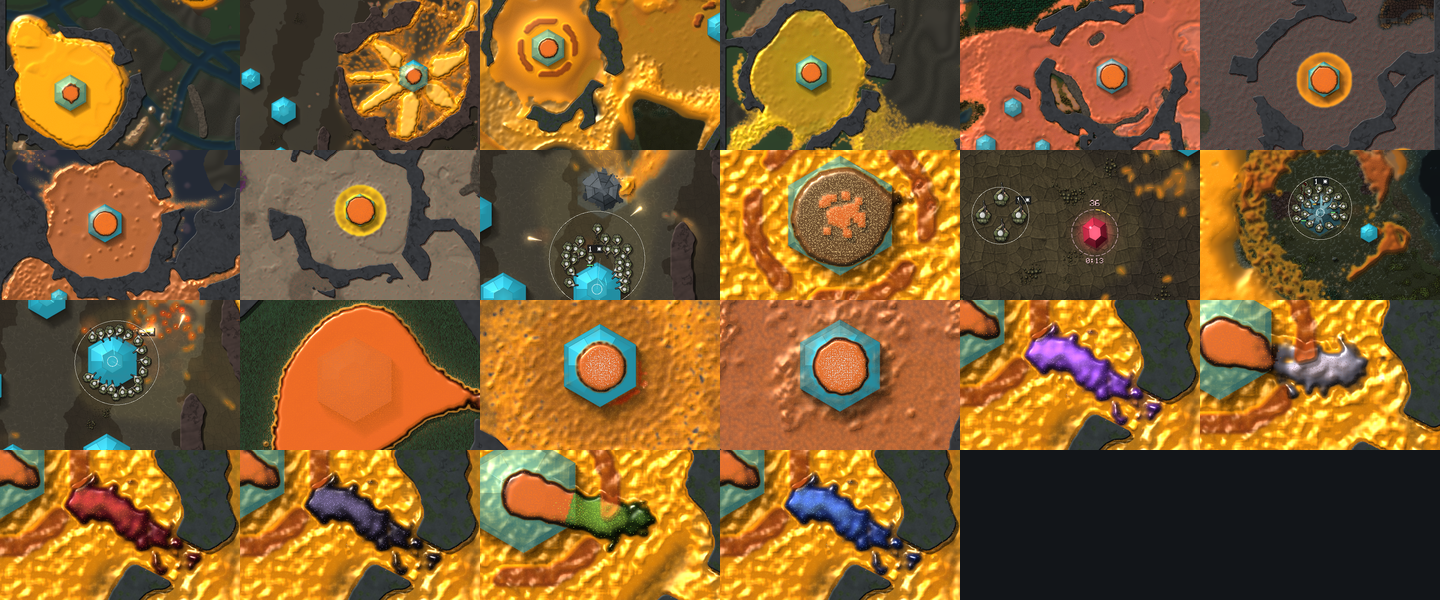
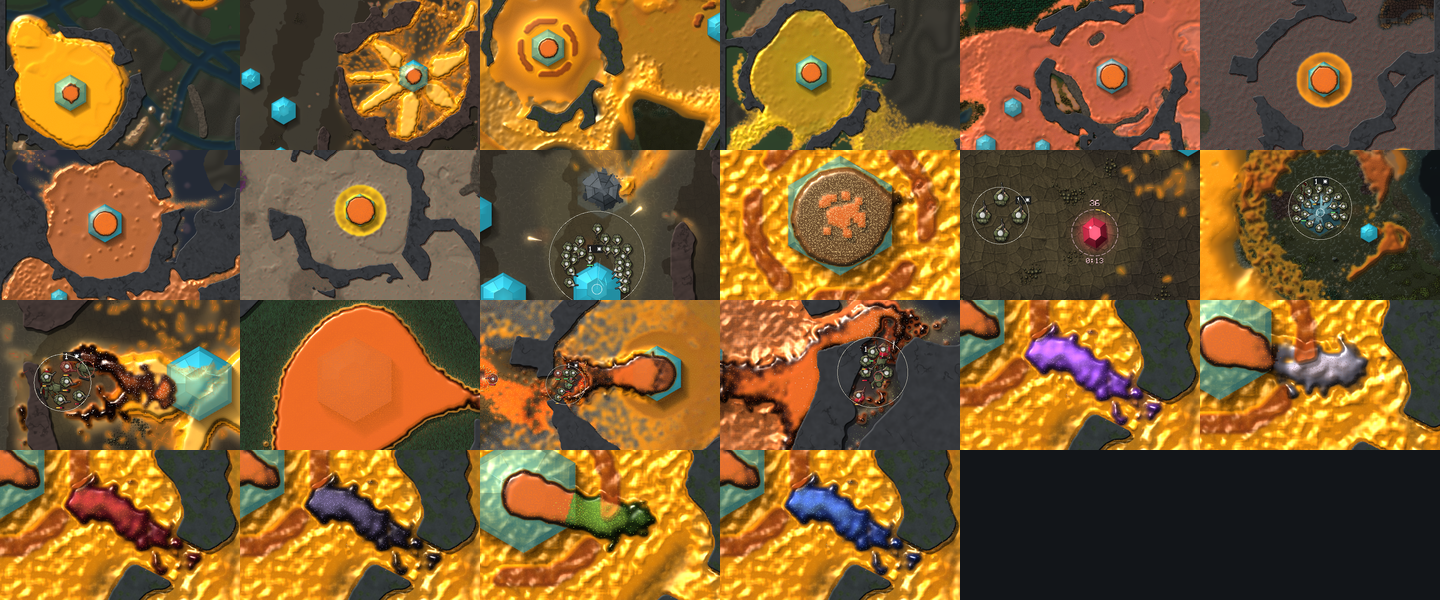
What is new by day, things to try beside it; three Slimes met stills refilmed
Direction's list (11-24 20:47Z), item 1: the what-is-new list is about 300
lines. The page already opened on the lines new to this PC and the main
menu row already counted them ("14 new"); now each run of one day's lines
sits under that day's heading ("Tuesday 24 November · 14 new", then the
days played on as "· N played before"), a page that starts inside a day
says its heading again, no page ends on a heading, and the five things to
try sit beside the list over the note with their ticks (a click ticks one;
the note tells the one under the cursor). The per-row date column went:
the heading carries the day.

Tried and moved: the things to try over the list, as Direction worded it.
At 3840x2160 and 250% that left three lines a page (78 pages); beside the
list it is eight a page (38 pages) and fifteen at 1280x800.

Stills (coordinator 20:35Z): lunge, wake and scar refilmed with the squad
holding beside the heart (commands in met-stills.py's header). The scar is
still subtle: the pill reads about 1% on old scar at 90 s.

Claude-Session: https://claude.ai/code/session_01TFcbG4kjXzCgswWqzPNG9n

Changed region(s): [[0.3125, 0.48, 0.6875, 0.75], [0.0, 0.48, 0.1875, 0.75]]

diff --git a/src/world/start.rs b/src/world/start.rs
@@ -701,6 +701,47 @@ fn sheet_of(n: usize, per: usize, sheet: usize) -> (std::ops::Range<usize>, usiz
     (p * per..((p + 1) * per).min(n), pages)
 }
 
+/// A row of the "what is new" list: a day's heading (its words, and
+/// whether it heads new lines), or line `i`.
+#[derive(Clone, Debug, PartialEq)]
+enum NewsRow {
+    Day(String, bool),
+    Line(usize),
+}
+
+/// The list's rows: each run of lines of one day and one kind (new, or
+/// on a build played here) under its heading.
+fn news_rows(news: &[NewsLine]) -> Vec<NewsRow> {
+    let mut rows = Vec::new();
+    let mut i = 0;
+    while i < news.len() {
+        let (new, date) = (news[i].new, &news[i].date);
+        let k = news[i..].iter().take_while(|l| l.new == new && l.date == *date).count();
+        let said = if new { format!("{k} new") } else { format!("{k} played before") };
+        rows.push(NewsRow::Day(format!("{}  ·  {said}", day_name(date)), new));
+        rows.extend((i..i + k).map(NewsRow::Line));
+        i += k;
+    }
+    rows
+}
+
+/// "2026-11-24" as "Tuesday 24 November"; the text itself if it is not a
+/// date.
+fn day_name(date: &str) -> String {
+    let d: Vec<i32> = date.split('-').filter_map(|x| x.parse().ok()).collect();
+    let [y, m, day] = d[..] else { return date.to_string() };
+    if !(1..=12).contains(&m) {
+        return date.to_string();
+    }
+    // Sakamoto's weekday, 0 Sunday.
+    const T: [i32; 12] = [0, 3, 2, 5, 0, 3, 5, 1, 4, 6, 2, 4];
+    let yy = if m < 3 { y - 1 } else { y };
+    let w = (yy + yy / 4 - yy / 100 + yy / 400 + T[(m - 1) as usize] + day).rem_euclid(7) as usize;
+    const DAYS: [&str; 7] = ["Sunday", "Monday", "Tuesday", "Wednesday", "Thursday", "Friday", "Saturday"];
+    const MONTHS: [&str; 12] = ["January", "February", "March", "April", "May", "June", "July", "August", "September", "October", "November", "December"];
+    format!("{} {day} {}", DAYS[w], MONTHS[(m - 1) as usize])
+}
+
 /// The size `text` fits `max` pixels at: `px`, smaller down to `least`
 /// (a tile's name shrinks before it is cut).
 fn fit_px(c: &Canvas, text: &str, px: f32, least: f32, max: f32) -> f32 {
@@ -907,8 +948,9 @@ pub struct StartMenu {
     /// Rows a page of it, as last drawn.
     per: usize,
     /// The build page's tab showing (0 what is new, 1 the things to try),
-    /// and the first thing to try on each page of that list as last drawn
-    /// (its rows are as tall as their text, so a page has no fixed count).
+    /// and the first row on each page of that tab as last drawn (a thing
+    /// to try is as tall as its text, and what is new has its days'
+    /// headings, so neither page has a fixed count).
     news_tab: usize,
     try_first: Vec<usize>,
 }
@@ -1233,9 +1275,11 @@ impl StartMenu {
     fn flip(&mut self, by: isize) {
         let n = self.sheets.max(1) as isize;
         self.sheet = (self.sheet as isize + by).rem_euclid(n) as usize;
-        if matches!(self.page, Page::Options | Page::Missions | Page::Shop | Page::Runs) || (self.page == Page::News && self.news_tab == 0) {
+        if matches!(self.page, Page::Options | Page::Missions | Page::Shop | Page::Runs) {
             self.focus = self.sheet * self.per.max(1);
         } else if self.page == Page::News {
+            // (Both tabs page by height: each page's first row, kept by
+            // the page as it draws.)
             self.focus = self.try_first.get(self.sheet).copied().unwrap_or(0);
         }
     }
@@ -2176,9 +2220,13 @@ impl StartMenu {
     }
 
     /// **What is new** (the build page's first tab): the list's lines as
-    /// one-line rows, the ones new to this PC first and marked, a page of
-    /// them if they outgrow the screen, and beside them the line under the
-    /// cursor (else the keyboard's, else the first) in full: what the
+    /// one-line rows, the ones new to this PC first and marked, each run
+    /// of one day under that day's heading ("Tuesday 24 November · 11
+    /// new", then the days already played on; Direction 11-24: the list
+    /// was 300 lines), a page of them if they outgrow the screen. Beside
+    /// them, the things to try as one-line rows with their ticks (they sat
+    /// a tab away), and under those the line under the cursor (else the
+    /// keyboard's, else the first) in full: what the
     /// player will see, how to try it, who wrote it and when. The same
     /// list-and-note shape as Options and the campaign, since a line is
     /// two or three sentences and a row has room for half of one.
@@ -2186,25 +2234,96 @@ impl StartMenu {
         let Some(b) = self.build.clone() else { return top };
         let n = b.news.len();
         let (lw, nw) = self.split(c, x, s);
-        let (rh, cap) = (40.0 * s, 40.0 * s);
         let room = self.room(c, top, s);
-        let per = ((room - cap - 12.0 * s) / rh).floor().max(1.0) as usize;
-        if let Some(Hit::Line(i)) = focus {
-            self.sheet = i / per;
+        // The things to try, a row each, over the note: a click ticks one
+        // (as on their own tab, which tells them in full), and the note
+        // tells the one under the cursor. (Over the list until the 4K
+        // film: at 250% on 2160 lines it left three lines a page.)
+        let mut hot_try = None;
+        let nx = x + lw + 20.0 * s;
+        let mut nt = top;
+        if !b.to_try.is_empty() {
+            let (th, tcap) = (30.0 * s, 38.0 * s);
+            let tp = Rect::new(nx, top, nw, tcap + b.to_try.len() as f32 * th + 8.0 * s);
+            self.glass(tp, c, s);
+            let left = b.untried();
+            let head = if left == 0 { format!("Things to try: all {} ticked", b.to_try.len()) } else { format!("Things to try: {left} of {} not ticked yet", b.to_try.len()) };
+            c.text_fit(Weight::SemiBold, 15.0 * s, (tp.x + 20.0 * s, tp.y + 27.0 * s), Align::Left, &head, tp.w - 40.0 * s, if left > 0 { ACCENT } else { MUTED });
+            let mut y = tp.y + tcap;
+            for (i, t) in b.to_try.iter().enumerate() {
+                let row = Rect::new(tp.x + 8.0 * s, y, tp.w - 16.0 * s, th - 2.0 * s);
+                let hot = self.hover.is_some_and(|p| row.contains(p));
+                if hot {
+                    c.rrect(row, 8.0 * s, [255, 255, 255, 12]);
+                    hot_try = Some(i);
+                }
+                let tick = Rect::new(row.x + 12.0 * s, row.y + (row.h - 18.0 * s) / 2.0, 18.0 * s, 18.0 * s);
+                if t.tried {
+                    c.rrect(tick, 5.0 * s, with_alpha(GOOD, 0.22));
+                    c.outline(tick, 5.0 * s, 1.5 * s, GOOD);
+                    c.icon(Icon::Check, (tick.x + 2.0 * s, tick.y + 2.0 * s), 14.0 * s, GOOD);
+                } else {
+                    c.outline(tick, 5.0 * s, 1.5 * s, if hot { TEXT } else { MUTED });
+                }
+                let tx = tick.right() + 12.0 * s;
+                c.text_fit(Weight::Medium, 14.5 * s, (tx, row.y + row.h / 2.0 + 5.0 * s), Align::Left, &t.text, row.right() - 10.0 * s - tx, if t.tried { MUTED } else { TEXT });
+                self.hits.push((row, Hit::Try(i)));
+                y += th;
+            }
+            nt = tp.bottom() + 14.0 * s;
         }
-        let (shown, pages) = sheet_of(n, per, self.sheet);
-        (self.sheets, self.per) = (pages, per);
-        self.sheet = self.sheet.min(pages - 1);
-        let panel = Rect::new(x, top, lw, cap + shown.len().max(1) as f32 * rh + 12.0 * s);
+        let lt = top;
+        // The rows: each day's heading, then its lines. The list comes
+        // new first, then by day, so a day may head both parts.
+        let rows = news_rows(&b.news);
+        let (rh, dh, cap) = (40.0 * s, 30.0 * s, 40.0 * s);
+        let h_of = |r: &NewsRow| if matches!(r, NewsRow::Day(..)) { dh } else { rh };
+        // Pages by height; a heading never ends a page, and a page that
+        // starts inside a day says its heading again.
+        let col = (room - (lt - top) - cap - 12.0 * s).max(2.0 * dh + rh);
+        let mut first = vec![0usize];
+        let mut used = 0.0f32;
+        for (k, r) in rows.iter().enumerate() {
+            if used + h_of(r) > col && used > 0.0 {
+                let at = if k > 0 && matches!(rows[k - 1], NewsRow::Day(..)) && first.last() != Some(&(k - 1)) { k - 1 } else { k };
+                first.push(at);
+                used = rows[at..k].iter().map(h_of).sum::<f32>() + if matches!(rows[at], NewsRow::Line(_)) { dh } else { 0.0 };
+            }
+            used += h_of(r);
+        }
+        if let Some(Hit::Line(i)) = focus {
+            let at = rows.iter().position(|r| *r == NewsRow::Line(i)).unwrap_or(0);
+            self.sheet = first.iter().rposition(|&f| f <= at).unwrap_or(0);
+        }
+        self.sheets = first.len();
+        self.sheet = self.sheet.min(self.sheets - 1);
+        let (from, to) = (first[self.sheet], first.get(self.sheet + 1).copied().unwrap_or(rows.len()));
+        // Where a page turn puts the keyboard: each page's first line.
+        self.try_first = first.iter().map(|&f| rows[f..].iter().find_map(|r| if let NewsRow::Line(i) = r { Some(*i) } else { None }).unwrap_or(0)).collect();
+        // The heading a page inside a day says again.
+        let again = matches!(rows.get(from), Some(NewsRow::Line(_))).then(|| rows[..from].iter().rev().find(|r| matches!(r, NewsRow::Day(..))).cloned()).flatten();
+        let used: f32 = again.iter().chain(&rows[from..to]).map(h_of).sum();
+        let panel = Rect::new(x, lt, lw, cap + used.max(rh) + 12.0 * s);
         self.glass(panel, c, s);
         // How much is new, and since which build.
         c.text_fit(Weight::SemiBold, 15.0 * s, (panel.x + 20.0 * s, panel.y + 28.0 * s), Align::Left, &b.since(), panel.w - 40.0 * s, if b.fresh() > 0 { ACCENT } else { MUTED });
         let chip_w = c.atlas.measure(Weight::SemiBold, 12.5 * s, "NEW") + 14.0 * s;
-        let date_w = c.atlas.measure(Weight::Medium, 13.5 * s, "00-00") + 12.0 * s;
-        let first = shown.start;
+        let first_line = rows[from..to].iter().find_map(|r| if let NewsRow::Line(i) = r { Some(*i) } else { None });
         let mut told = None;
         let mut y = panel.y + cap + 4.0 * s;
-        for i in shown {
+        for r in again.iter().chain(&rows[from..to]) {
+            let i = match r {
+                NewsRow::Day(t, new) => {
+                    // (A hairline over each heading but the page's first.)
+                    if y > panel.y + cap + 5.0 * s {
+                        c.rrect(Rect::new(panel.x + 18.0 * s, y + 2.0 * s, panel.w - 36.0 * s, 1.0 * s), 0.0, [255, 255, 255, 18]);
+                    }
+                    c.text_fit(Weight::SemiBold, 13.5 * s, (panel.x + 20.0 * s, y + dh - 8.0 * s), Align::Left, t, panel.w - 40.0 * s, if *new { ACCENT } else { MUTED });
+                    y += dh;
+                    continue;
+                }
+                NewsRow::Line(i) => *i,
+            };
             let l = &b.news[i];
             let row = Rect::new(panel.x + 8.0 * s, y, panel.w - 16.0 * s, rh - 4.0 * s);
             let focused = focus == Some(Hit::Line(i));
@@ -2225,10 +2344,9 @@ impl StartMenu {
                 c.rrect(chip, 10.0 * s, with_alpha(ACCENT, 0.18));
                 c.text(Weight::SemiBold, 12.5 * s, (chip.x + chip.w / 2.0, chip.y + 14.5 * s), Align::Centre, "NEW", ACCENT);
             }
-            // (The seen lines keep the column, so the dates line up.)
-            tx += chip_w + 8.0 * s;
-            c.text(Weight::Medium, 13.5 * s, (tx, base), Align::Left, l.date.get(5..).unwrap_or(&l.date), MUTED);
-            tx += date_w;
+            // (The seen lines keep the chip's column, so the words line
+            // up. The day is the heading's since 11-24, not a column.)
+            tx += chip_w + 10.0 * s;
             let (weight, ink) = if l.new { (Weight::SemiBold, TEXT) } else { (Weight::Medium, [201, 210, 219, 255]) };
             c.text_fit(weight, 15.5 * s, (tx, base), Align::Left, &l.sees, row.right() - 12.0 * s - tx, ink);
             self.hits.push((row, Hit::Line(i)));
@@ -2237,14 +2355,31 @@ impl StartMenu {
         if n == 0 {
             c.text(Weight::Medium, 15.5 * s, (panel.x + 20.0 * s, panel.y + cap + 28.0 * s), Align::Left, "The list is empty", MUTED);
         }
-        // The note. Its text shrinks a step or two before it is cut: the
-        // longest lines at 200% on 1080 lines need it.
-        let Some(l) = told.or((n > 0).then_some(first)).map(|i| &b.news[i]) else { return panel.bottom() };
+        let bottom = panel.bottom();
+        // The note: the thing to try under the cursor, else the line. Its
+        // text shrinks a step or two before it is cut: the longest lines
+        // at 200% on 1080 lines need it.
         let tw = nw - 36.0 * s;
+        // (Half a pixel under: filled to the last bit, the sum came out
+        // 0.00003 over at 640 x 400 and the page scrolled.)
+        let room = room - (nt - top) - 0.5;
+        let r0 = |need: f32| Rect::new(nx, nt, nw, (bottom - nt).max(260.0 * s).max(need).min(room));
+        if let Some(t) = hot_try.and_then(|i| b.to_try.get(i)) {
+            let need = (34.0 + 30.0 + 46.0) * s + Self::count(c, Weight::Medium, 16.0 * s, tw, &t.text) * 23.0 * s;
+            let r = r0(need);
+            self.glass(r, c, s);
+            let px = r.x + 18.0 * s;
+            let (tag, ink) = if t.tried { ("A thing to try, ticked", MUTED) } else { ("A thing to try", ACCENT) };
+            c.text(Weight::SemiBold, 13.5 * s, (px, r.y + 34.0 * s), Align::Left, tag, ink);
+            self.lines(c, Weight::Medium, 16.0 * s, (px, r.y + 64.0 * s), tw, 23.0 * s, &t.text, TEXT);
+            c.text_fit(Weight::Medium, 13.0 * s, (px, r.bottom() - 18.0 * s), Align::Left, "A click ticks it: the game remembers it on this PC", tw, MUTED);
+            return bottom.max(r.bottom());
+        }
+        let Some(l) = told.or(first_line).map(|i| &b.news[i]) else { return bottom.max(nt) };
         let fixed = (34.0 + 30.0 + 10.0 + 46.0) * s + if l.try_it.is_empty() { 0.0 } else { 30.0 * s };
         let need = |c: &Canvas, k: f32| fixed + Self::count(c, Weight::Medium, 16.0 * k * s, tw, &l.sees) * 23.0 * k * s + Self::count(c, Weight::Medium, 15.0 * k * s, tw, &l.try_it) * 22.0 * k * s;
         let k = [1.0, 0.92, 0.84].into_iter().find(|&k| need(c, k) <= room).unwrap_or(0.84);
-        let r = Rect::new(x + lw + 20.0 * s, top, nw, panel.h.max(260.0 * s).max(need(c, k)).min(room));
+        let r = r0(need(c, k));
         self.glass(r, c, s);
         let px = r.x + 18.0 * s;
         let mut y = r.y + 34.0 * s;
@@ -2261,7 +2396,7 @@ impl StartMenu {
             self.lines_most(c, 15.0 * k * s, (px, y), tw, 22.0 * k * s, &l.try_it, [201, 210, 219, 255], most(y, 22.0 * k * s));
         }
         c.text_fit(Weight::Medium, 13.0 * s, (px, r.bottom() - 18.0 * s), Align::Left, &format!("{}  ·  {}", l.lane, l.date), tw, MUTED);
-        panel.bottom().max(r.bottom())
+        bottom.max(r.bottom())
     }
 
     /// The Runs page (Direction 11-24): the best time on each planet over
@@ -3523,6 +3658,40 @@ mod tests {
     /// its pages with the wheel and Left/Right, not only the small pager
     /// in the corner (Milestone 1 test 6, 11-22): a notch down is the next
     /// page, the wheel stops at the ends, and the hint says so.
+    /// What is new (Direction 11-24): the things to try over the list,
+    /// each day's lines under its heading, new before played, and no
+    /// page ending on a heading; the keyboard's line keeps its page.
+    #[test]
+    fn what_is_new_groups_its_lines_by_day_under_the_things_to_try() {
+        assert_eq!(day_name("2026-11-24"), "Tuesday 24 November");
+        assert_eq!(day_name("2027-01-01"), "Friday 1 January");
+        assert_eq!(day_name("soon"), "soon");
+        let said = |c: &Canvas, t: &str| c.runs.iter().any(|r| r.text == t);
+        let mut m = menu();
+        let mut c = Canvas::new((1280, 800));
+        // 40 lines: 0-19 of the 18th, 20-39 of the 17th; 0-24 new.
+        m.build = Some(build_page(40, 25));
+        let rows = news_rows(&m.build.as_ref().unwrap().news);
+        let heads: Vec<&str> = rows.iter().filter_map(|r| if let NewsRow::Day(t, _) = r { Some(t.as_str()) } else { None }).collect();
+        assert_eq!(heads, ["Wednesday 18 November  ·  20 new", "Tuesday 17 November  ·  5 new", "Tuesday 17 November  ·  15 played before"]);
+        m.show(Page::News);
+        m.draw(&mut c);
+        assert!(said(&c, "Things to try: 4 of 5 not ticked yet") && said(&c, "Wednesday 18 November  ·  20 new"));
+        assert!(m.sheets >= 2);
+        // Each page starts on a line or a heading followed by a line, and
+        // the keyboard's line keeps its page.
+        for p in 0..m.sheets {
+            let line = m.try_first[p];
+            m.focus = line;
+            c.clear();
+            m.draw(&mut c);
+            assert_eq!(m.sheet, p, "line {line} is on page {p}");
+        }
+        // A thing to try clicked on this tab ticks it.
+        let ev = click(&mut m, &mut c, Hit::Try(0));
+        assert_eq!(ev, vec![StartEvent::Tried(0, true)]);
+    }
+
     #[test]
     fn a_long_what_is_new_turns_its_pages_with_the_wheel_and_arrows() {
         let said = |c: &Canvas, t: &str| c.runs.iter().any(|r| r.text == t);

diff --git a/assets/met-stills.py b/assets/met-stills.py
@@ -23,11 +23,14 @@ words are in the picture):
 - stand: `run=1:4 hand=idle set=origin=0 LARDER_FORCE=stand@5
   centre=98,126,6 at=20`.
 - strikers: `run=1:2 hand=greedy centre=squad,5 at=100`.
-- lunge: `run=1:2 hand=greedy LARDER_FORCE=lunge@50 centre=squad,5 at=78`.
-- wake: `run=1:6 hand=idle boom=20,736,229,blast boom=21,740,232,blast
-  centre=736,229,6 at=25`.
-- scar: `run=1:7 hand=idle`, six `boom=T,120,520,blast` 5 s apart from 5 s,
-  `centre=120,520,6 at=40`.
+- lunge: `run=1:2 hand=hold@320,149 LARDER_FORCE=lunge@8
+  centre=340,149,5 at=34`: the heart's dark body reaching off its crystal
+  into the squad that holds beside it.
+- wake: `run=1:6 hand=hold@700,229 centre=736,229,6 at=35`: the squad
+  holding beside the heart wakes it, orange among the grey sleeping slime.
+- scar: `run=1:7 hand=hold@200,520 bank=3000 centre=150,520,6 at=90`: the
+  squad fights from the heart's edge for a minute and a half, and the arm
+  the slime sends at it runs pale and glossy where it grew back tough.
 """
 
 import os
@@ -52,10 +55,10 @@ CUTS = [
     ("fruit", "t-fruit/planet-3-1-idle-016s-near.png", None),
     ("core", "t-core/planet-2-1-idle-005s-near.png", None),
     ("wave", "t-wave/planet-3-1-greedy-070s-near.png", (320, 45, 960, 445)),
-    ("lunge", "t-lunge/planet-2-1-greedy-078s-near.png", None),
+    ("lunge", "r-lunge2/planet-2-1-hold@320,149-034s-near.png", (440, 180, 1000, 530)),
     ("stand", "t-stand/planet-4-1-idle-020s-near.png", (280, 160, 920, 560)),
-    ("wake", "t-wake/planet-6-1-idle-025s-near.png", None),
-    ("scar", "t-scar/planet-7-1-idle-040s-near.png", None),
+    ("wake", "r-wake1/planet-6-1-hold@700,229-035s-near.png", (150, 130, 950, 630)),
+    ("scar", "r-scar2/planet-7-1-hold@200,520-090s-near.png", (560, 180, 1200, 580)),
     ("boss-hunter", "b2-hunter/planet-3-1-idle-018s-near.png", None),
     ("boss-wanderer", "b2-wanderer/planet-3-1-idle-026s-near.png", None),
     ("boss-sapper", "b2-sapper/planet-3-1-idle-018s-near.png", None),

diff --git a/handoff/look-and-interface.md b/handoff/look-and-interface.md
@@ -184,9 +184,14 @@ until a run has ended, so the main page keeps its row count), filled by
 Stills: one sheet `assets/met-stills.png` (240x150 cells, `Canvas::still`,
 the canvas's `PICTURE` kind, binding 6), cut by `assets/met-stills.py`
 (its header has every film's command; `LARDER_FORCE` gained fruit, core,
-boss-KIND; `LARDER_HINTS=off` films without hint words). Weak stills to
-refilm when there is time: lunge, wake, scar (none shows its thing
-plainly).
+boss-KIND; `LARDER_HINTS=off` films without hint words). #838 merged it;
+the lunge, wake and scar stills were refilmed after (squad holding beside
+the heart; the scar is subtle, about 1% "on old scar" at 90 s). Direction's
+next list (20:47Z): 1 What is new caught up by day (`news_rows`,
+`day_name`, things to try beside the list over the note, a heading again
+on a page inside a day; done), 2 the pause card shows the planet's slime
+line, twist and goal, 3 own pick from the 4K menu films. The rescue
+planet's screens come to this lane first.
 
 **11-24, Look C, polish findings 3 and 4:** crystals are cut gems
 (`GEM_GIRDLE`, `GEM_TABLE`, `GEM_STAR`, `GEM_VEINS` in `shaded`) and a
